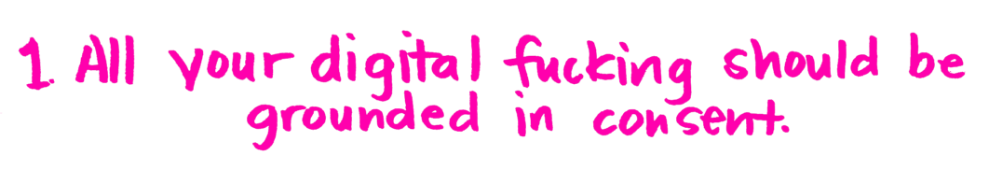
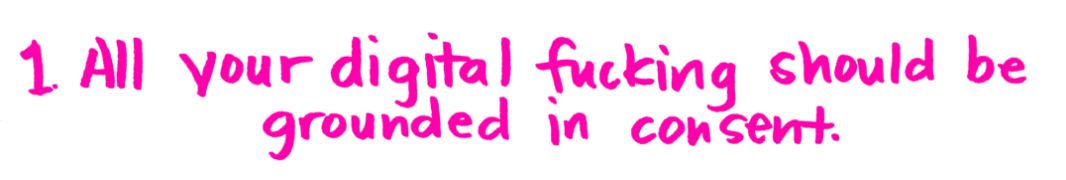
converted guideline 1 to be mobile

diff --git a/src/issues/issue-1/sext-ed.js b/src/issues/issue-1/sext-ed.js
@@ -2,20 +2,23 @@ import React from "react"
 import Img from "gatsby-image"
 import styled from "styled-components"
 import { useStaticQuery, graphql } from "gatsby"
+import { useMediaQuery } from "react-responsive"
 
-import { PaddedWidthContainer, Row, Column } from "../../styles/layout"
+import {
+  PaddedWidthContainer,
+  Row,
+  Column,
+  breakpoints,
+} from "../../styles/layout"
 import { Text, H2, H1 } from "../../styles/text"
 
-const ArtistNameContainer = styled.div`
-  position: absolute;
-  top: 35px;
-  right: 155px;
-  width: 100px;
-  height: 124px;
-`
+const FluidImageContainer = styled.div`
+  width: 70%;
+  margin: auto;
 
-const ArtistName = styled.p`
-  font-size: 23px;
+  @media only screen and (max-width: 600px) {
+    width: 90%;
+  }
 `
 
 const Sext = () => {
@@ -39,7 +42,20 @@ const Sext = () => {
     }
   `)
 
-  console.log(data)
+  const isPhoneWide = useMediaQuery({
+    query: breakpoints.phoneWide,
+  })
+
+  const digitalFuckingDesktop = data.allFile.edges.find(
+    edge => edge.node.name === "1-digital-fucking"
+  )
+  const digitalFuckingMobile = data.allFile.edges.find(
+    edge => edge.node.name === "1-digital-fucking-mobile"
+  )
+
+  const displayGuideline1 = isPhoneWide
+    ? digitalFuckingMobile
+    : digitalFuckingDesktop
 
   const imgTitle = data.allFile.edges.find(
     edge => edge.node.name === "Sext-Ed-101"
@@ -99,19 +115,19 @@ const Sext = () => {
 
   return (
     <PaddedWidthContainer id="sext-ed">
-      <Img fluid={imgTitle.node.childImageSharp.fluid} />
-      <div style={{ position: "relative", marginTop: "7%" }}>
+      <Img
+        style={{ marginBottom: "50px" }}
+        fluid={imgTitle.node.childImageSharp.fluid}
+      />
+      <FluidImageContainer>
         <Img
-          style={{ width: "50%", margin: "auto" }}
+          // style={{ width: "60%", margin: "auto" }}
           fluid={imgFace.node.childImageSharp.fluid}
         />
-        <ArtistNameContainer>
-          <ArtistName>by Kimberley Chou</ArtistName>
-        </ArtistNameContainer>
-      </div>
+      </FluidImageContainer>
       <Row>
-        <Column width="100" align="flex-start" style={{ margin: "0 23%" }}>
-          <H1>I love dirty talk. </H1>
+        <Column style={{ margin: "auto" }}>
+          <H1 style={{ width: "100%" }}>I love dirty talk. </H1>
           <Text>
             And to be sexting—that is, sending sexually explicit photos, videos
             or text-based messages—or having phone sex during this period of
@@ -131,15 +147,14 @@ const Sext = () => {
         </Column>
       </Row>
       <Img
-        style={{ width: "85%", margin: "auto" }}
+        style={{ margin: "auto" }}
         fluid={guidelines.node.childImageSharp.fluid}
-      />
-      <Img
-        style={{ width: "60%", height: "100px" }}
-        fixed={digitalFucking.node.childImageSharp.fixed}
       />
       <Row style={{ marginLeft: "5%" }}>
         <Column width="60">
+          <div style={{ width: "100%" }}>
+            <Img fluid={displayGuideline1.node.childImageSharp.fluid} />
+          </div>
           <Text>
             Be upfront with your partners, just as you would IRL — and it
             doesn’t have to be corny. I think it’s incredibly sexy for a new
@@ -162,12 +177,11 @@ const Sext = () => {
             talk about it.)
           </Text>
         </Column>
-        <div style={{ width: "40%" }}>
-          <Img
-            style={{ width: "100%", margin: "10px" }}
-            fluid={phone.node.childImageSharp.fluid}
-          />
-        </div>
+        <Column width={40}>
+          <div style={{ width: "100%" }}>
+            <Img fluid={phone.node.childImageSharp.fluid} />
+          </div>
+        </Column>
       </Row>
       <Img
         style={{
@@ -204,7 +218,7 @@ const Sext = () => {
         </Column>
       </Row>
       <Img
-        style={{ width: "68%", height: "50px", marginBottom: "50px" }}
+        // style={{ width: "68%", height: "50px", marginBottom: "50px" }}
         fixed={dirtyTalk.node.childImageSharp.fixed}
       />
       <Row style={{ marginLeft: "5%" }}>

diff --git a/src/issues/issue-1/index.js b/src/issues/issue-1/index.js
@@ -19,7 +19,7 @@ import Credits from "./credits"
 const Issue1 = () => {
   return (
     <>
-      <Cover />
+      {/* <Cover />
       <LineBreak fileName="morse-follow-me" />
       <ApartmentDrawing />
       <LineBreak fileName="morse-into-the-void" />
@@ -39,7 +39,7 @@ const Issue1 = () => {
       <LineBreak fileName="boring-line" />
       <LimerickMinute />
       <LineBreak fileName="boring-line" />
-      <BarbershopsAreClosed />
+      <BarbershopsAreClosed /> */}
       <Sext />
       <Credits />
     </>
